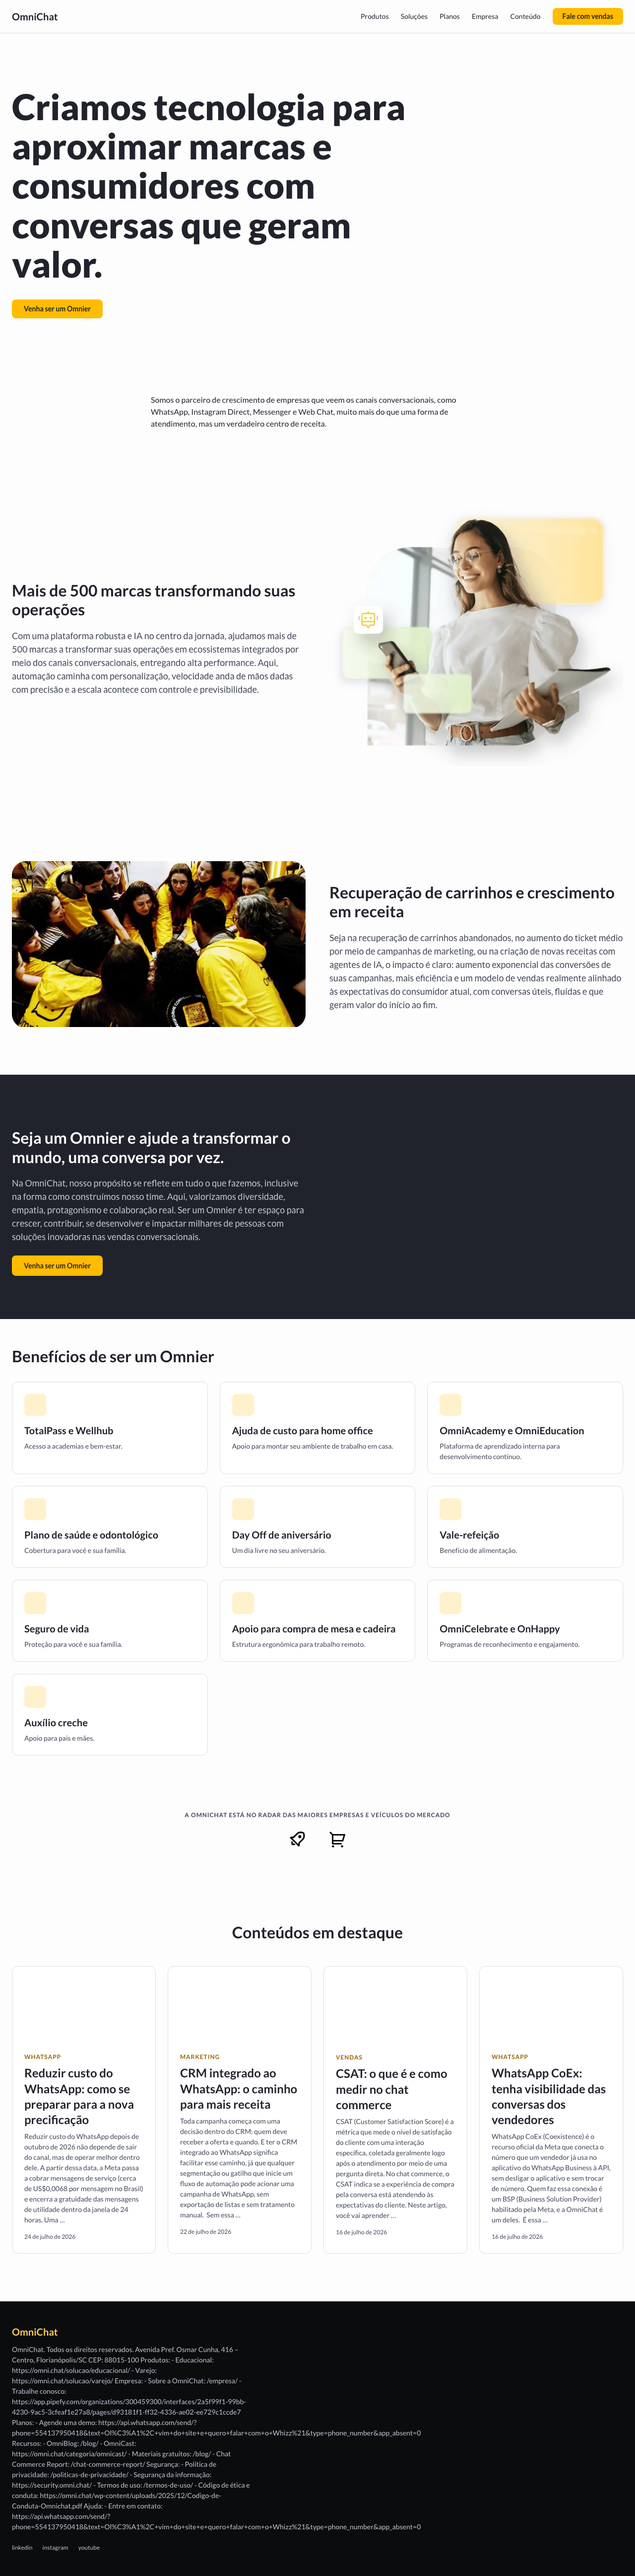
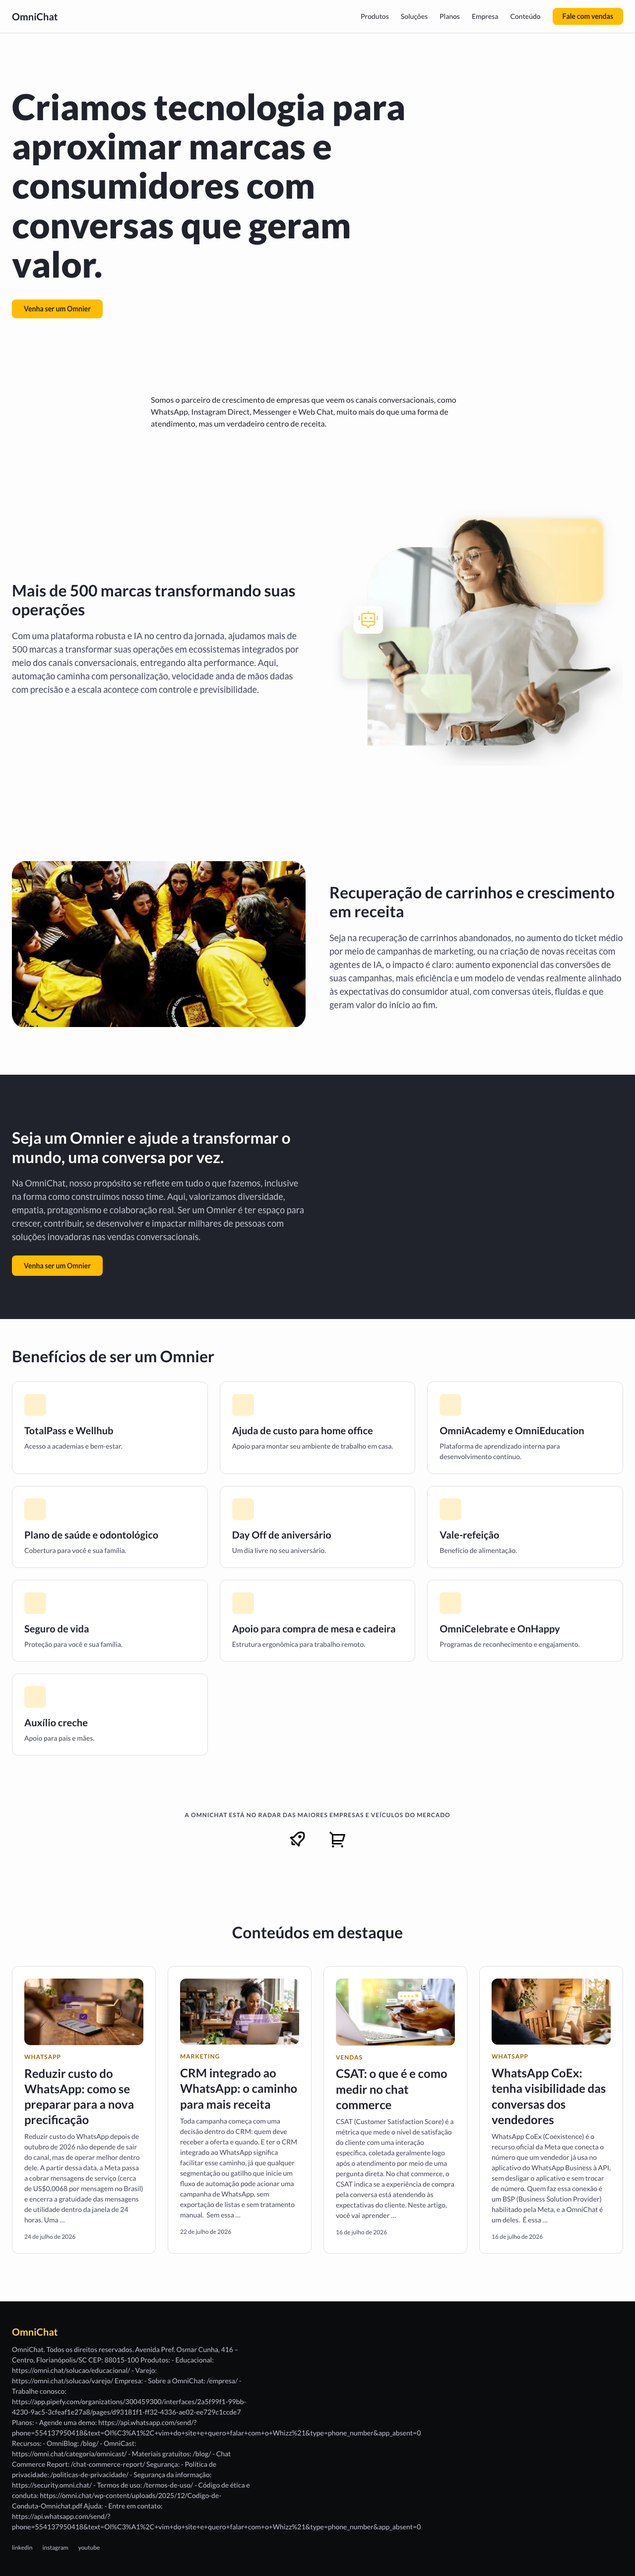
fix: scroll pages before visual capture to trigger WP lazy-load, add /lgpd to a11y sweep

diff --git a/scripts/visual-compare.ts b/scripts/visual-compare.ts
@@ -26,12 +26,33 @@ const WP_BASE = "https://omni.chat";
 const LOCAL_BASE = "http://localhost:3000";
 const VIEWPORT_WIDTH = 1280;
 
-async function captureScreenshot(
-  page: Awaited<ReturnType<Awaited<ReturnType<typeof chromium.launch>>["newPage"]>>,
-  url: string,
-  outputPath: string,
-): Promise<void> {
+type Page = Awaited<ReturnType<Awaited<ReturnType<typeof chromium.launch>>["newPage"]>>;
+
+/**
+ * Scroll the whole document in steps so lazy-loaded images and
+ * scroll-triggered animations (common on the WP site) render before
+ * the full-page screenshot. Returns to the top before capture.
+ */
+async function scrollFullPage(page: Page): Promise<void> {
+  const step = 700;
+  const pauseMs = 400;
+  const maxSteps = 80;
+  for (let i = 0; i < maxSteps; i++) {
+    const atBottom = await page.evaluate(
+      () => window.innerHeight + window.scrollY >= document.body.scrollHeight - 2,
+    );
+    if (atBottom) break;
+    await page.mouse.wheel(0, step);
+    await page.waitForTimeout(pauseMs);
+  }
+  await page.waitForTimeout(2000);
+  await page.evaluate(() => window.scrollTo(0, 0));
+  await page.waitForTimeout(500);
+}
+
+async function captureScreenshot(page: Page, url: string, outputPath: string): Promise<void> {
   await page.goto(url, { waitUntil: "networkidle", timeout: 60_000 });
+  await scrollFullPage(page);
   await page.screenshot({ path: outputPath, fullPage: true });
   console.log(`  saved: ${outputPath}`);
 }

diff --git a/tests/e2e/a11y.spec.ts b/tests/e2e/a11y.spec.ts
@@ -2,7 +2,7 @@ import { test, expect } from "@playwright/test";
 import AxeBuilder from "@axe-core/playwright";
 
 test.describe("acessibilidade", () => {
-  for (const path of ["/", "/styleguide", "/blog", "/planos", "/empresa", "/chat-commerce-report"]) {
+  for (const path of ["/", "/styleguide", "/blog", "/planos", "/empresa", "/chat-commerce-report", "/lgpd"]) {
     test(`${path} sem violações críticas de a11y`, async ({ page }) => {
       await page.goto(path);
       const results = await new AxeBuilder({ page }).analyze();
